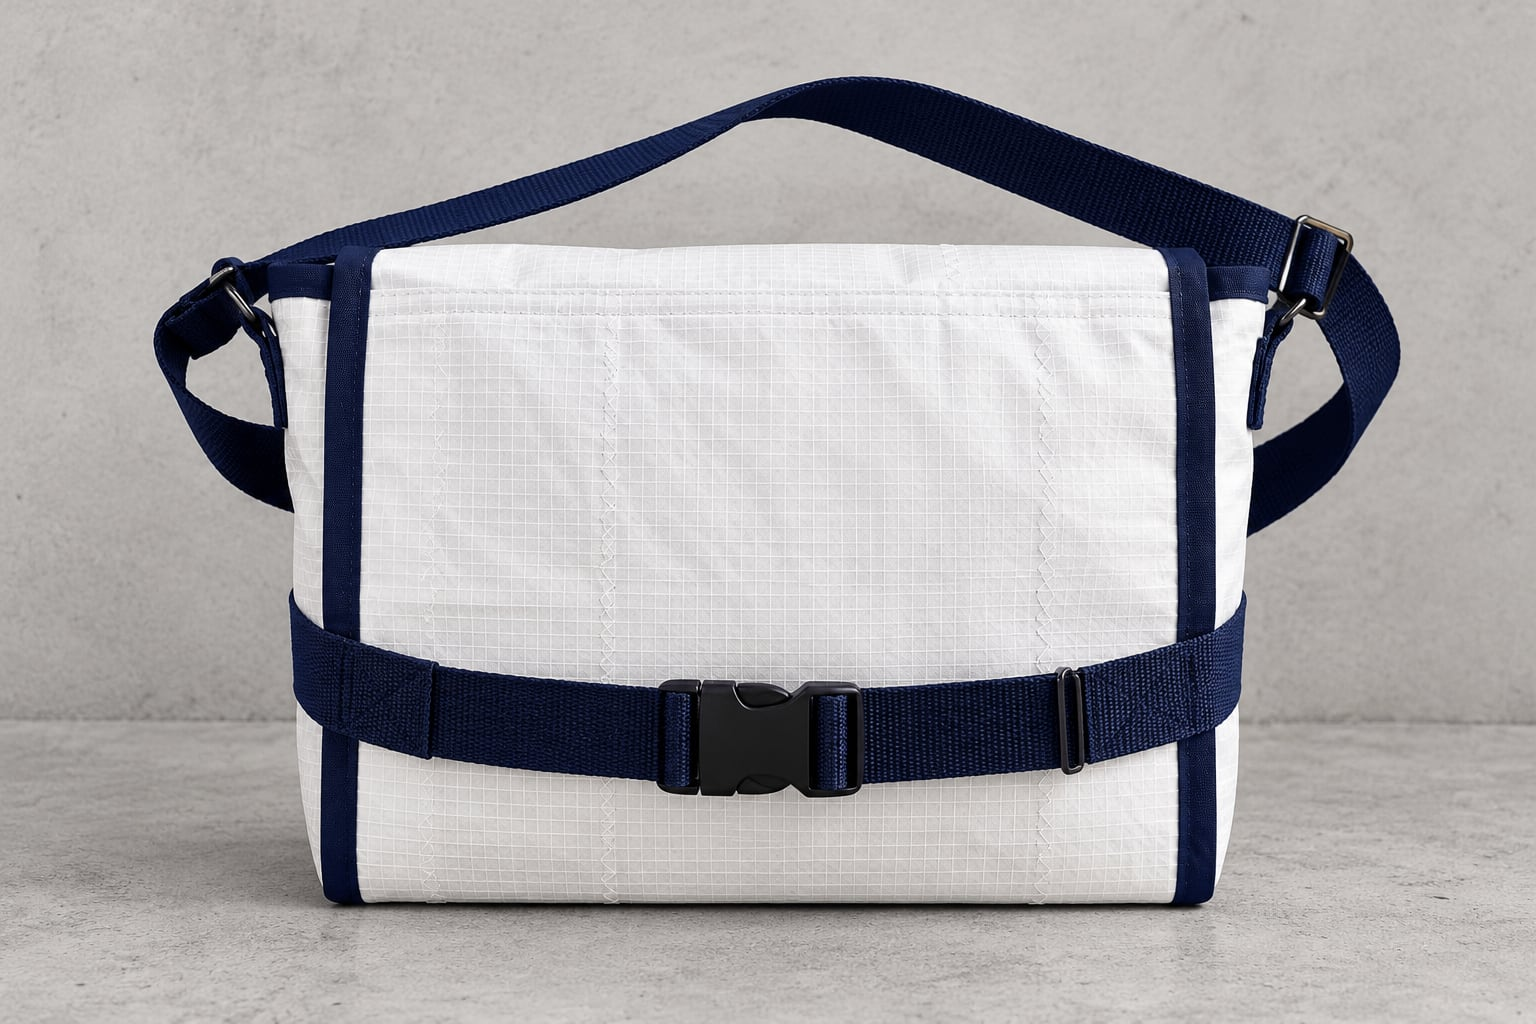
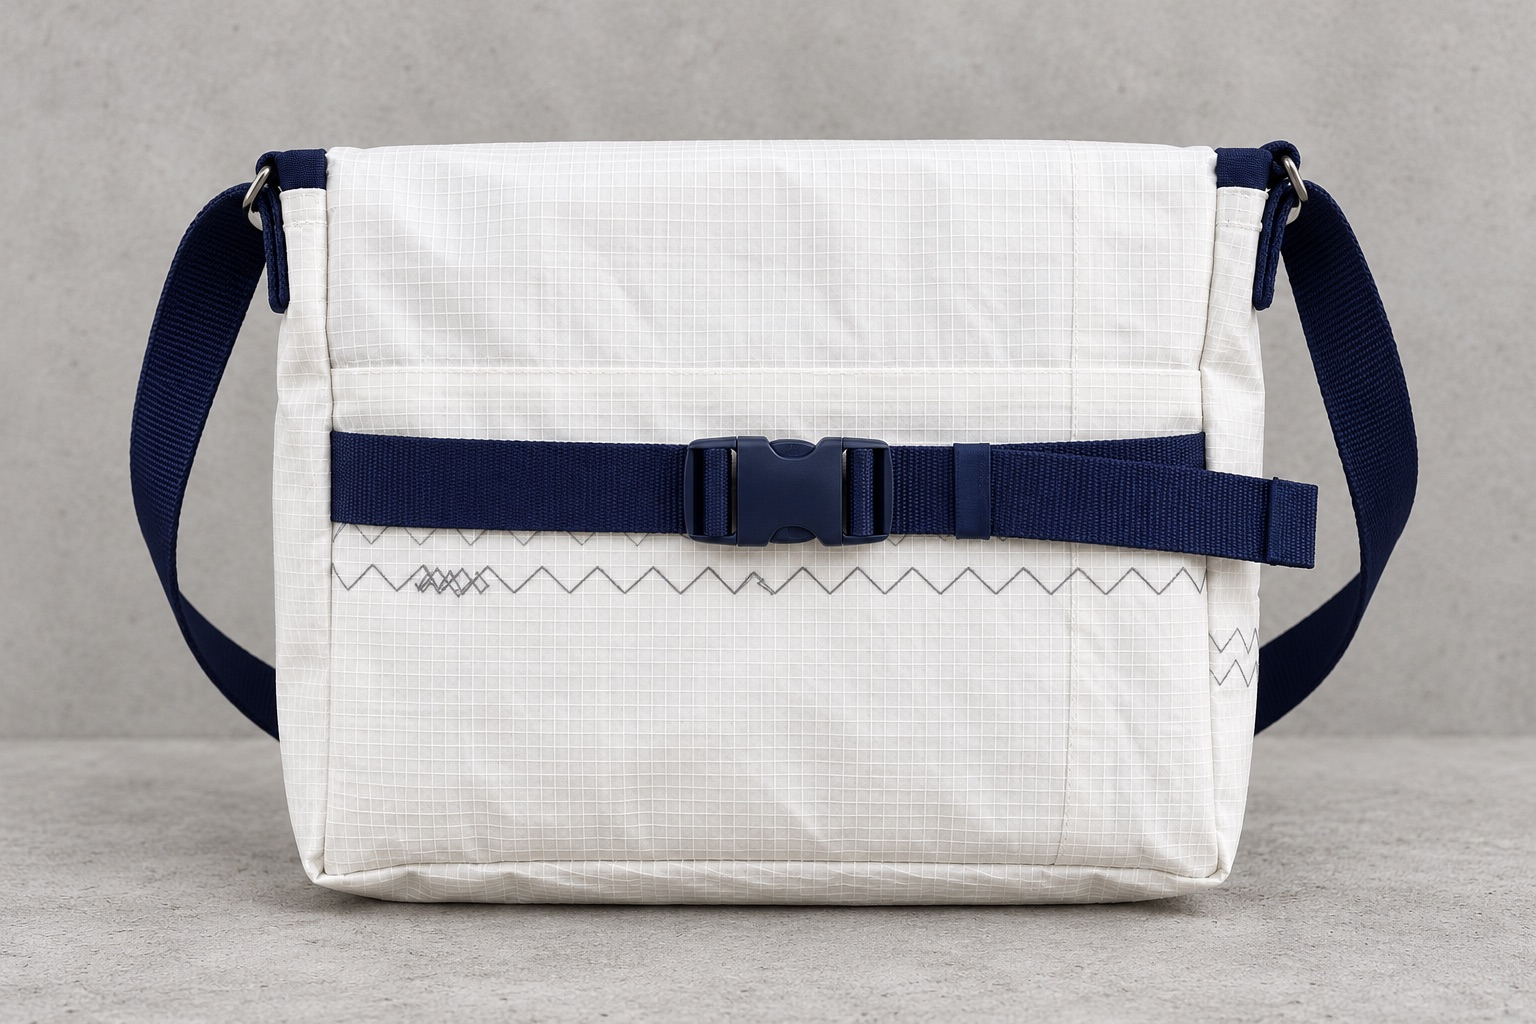
fix: white back views without navy edging for the dark bags
- regenerated the AI back views of 002, 003, 004 and 006 from a real
  back photo: plain white body, navy only on straps and buckle
- new script update-bag-photos.ts re-uploads the photos from assets/
  for existing example bags, since the seed leaves them unchanged
- photo upload moved into a shared uploadBagImages helper

diff --git a/apps/backend/src/scripts/seed-segelstueck.ts b/apps/backend/src/scripts/seed-segelstueck.ts
@@ -68,7 +68,24 @@ const DESCRIPTION = [
   "Handgemacht aus Segelstoff. Jede Tasche ist ein Einzelstück und genau einmal erhältlich.",
 ].join("\n\n")
 
-export type SeedResult = { productId: string; variantId: string; created: boolean }
+/** Uploads the bag's photos from assets/, sorted by file name; the first is the thumbnail. */
+export async function uploadBagImages(container: MedusaContainer, bag: Bag) {
+  const imageDir = path.join(__dirname, "assets", bag.imageDir)
+  const imageFiles = readdirSync(imageDir).filter((f) => f.endsWith(".jpg")).sort()
+  const { result: files } = await uploadFilesWorkflow(container).run({
+    input: {
+      files: imageFiles.map((f) => ({
+        filename: `${bag.handle}-${f}`,
+        mimeType: "image/jpeg",
+        content: readFileSync(path.join(imageDir, f)).toString("base64"),
+        access: "public" as const,
+      })),
+    },
+  })
+  return files
+}
+
+export type SeedResult ={ productId: string; variantId: string; created: boolean }
 
 /** Seeds every bag of the catalogue; returns the result for Segeltasche 001. */
 export async function seedSegelstueck(container: MedusaContainer): Promise<SeedResult> {
@@ -126,18 +143,7 @@ async function seedBag(container: MedusaContainer, bag: Bag): Promise<SeedResult
     )
   }
 
-  const imageDir = path.join(__dirname, "assets", bag.imageDir)
-  const imageFiles = readdirSync(imageDir).filter((f) => f.endsWith(".jpg")).sort()
-  const { result: files } = await uploadFilesWorkflow(container).run({
-    input: {
-      files: imageFiles.map((f) => ({
-        filename: `${bag.handle}-${f}`,
-        mimeType: "image/jpeg",
-        content: readFileSync(path.join(imageDir, f)).toString("base64"),
-        access: "public" as const,
-      })),
-    },
-  })
+  const files = await uploadBagImages(container, bag)
 
   const {
     result: [product],

diff --git a/apps/backend/src/scripts/update-bag-photos.ts b/apps/backend/src/scripts/update-bag-photos.ts
@@ -1,0 +1,44 @@
+/**
+ * Replaces the photos of already seeded example bags with the current files
+ * in src/scripts/assets/. The seed itself never touches existing bags.
+ *
+ *   npx medusa exec ./src/scripts/update-bag-photos.ts
+ *
+ * Only bags that still exist and are marked as examples (metadata.beispiel)
+ * are updated; stock, price and description stay as they are.
+ */
+import type { ExecArgs } from "@medusajs/framework/types"
+import { ContainerRegistrationKeys, Modules } from "@medusajs/framework/utils"
+import { updateProductsWorkflow } from "@medusajs/medusa/core-flows"
+import { SEGELSTUECK_BAGS, uploadBagImages } from "./seed-segelstueck"
+
+export default async function updateBagPhotos({ container }: ExecArgs) {
+  const logger = container.resolve(ContainerRegistrationKeys.LOGGER)
+  const productService = container.resolve(Modules.PRODUCT)
+
+  for (const bag of SEGELSTUECK_BAGS) {
+    const [product] = await productService.listProducts({ handle: bag.handle })
+    if (!product) {
+      logger.info(`Segelstueck: ${bag.handle} not found, skipping.`)
+      continue
+    }
+    if (product.metadata?.beispiel !== true) {
+      logger.info(`Segelstueck: ${bag.handle} is no example bag, leaving its photos.`)
+      continue
+    }
+
+    const files = await uploadBagImages(container, bag)
+    await updateProductsWorkflow(container).run({
+      input: {
+        products: [
+          {
+            id: product.id,
+            thumbnail: files[0].url,
+            images: files.map((f) => ({ url: f.url })),
+          },
+        ],
+      },
+    })
+    logger.info(`Segelstueck: updated photos of ${bag.handle}.`)
+  }
+}

diff --git a/README.md b/README.md
@@ -79,6 +79,8 @@ ist wieder kaufbar.
 Beschreibung sind echt, der Preis ist ein Platzhalter. Bei 002–006 ist nur das erste Foto echt;
 die weiteren Ansichten sind mit Codex KI-generiert, der Shop weist unter der Galerie darauf hin
 (Metadatum `ki_ansichten: true`). Vor einem echten Verkauf durch echte Fotos ersetzen.
+Geänderte Fotos in `assets/` übernimmt `npx medusa exec ./src/scripts/update-bag-photos.ts`
+(in `apps/backend`) für bereits angelegte Beispieltaschen; das Seed selbst lässt sie unverändert.
 Preis im Admin ersetzen oder das Produkt löschen. Ein gelöschtes
 Beispielprodukt legt `npm run setup` nicht erneut an. Die Kennzeichnung „Beispiel“ und
 „Demo-Preis“ hängt am Metadatum `beispiel: true`; für echte Taschen dieses Feld weglassen.
